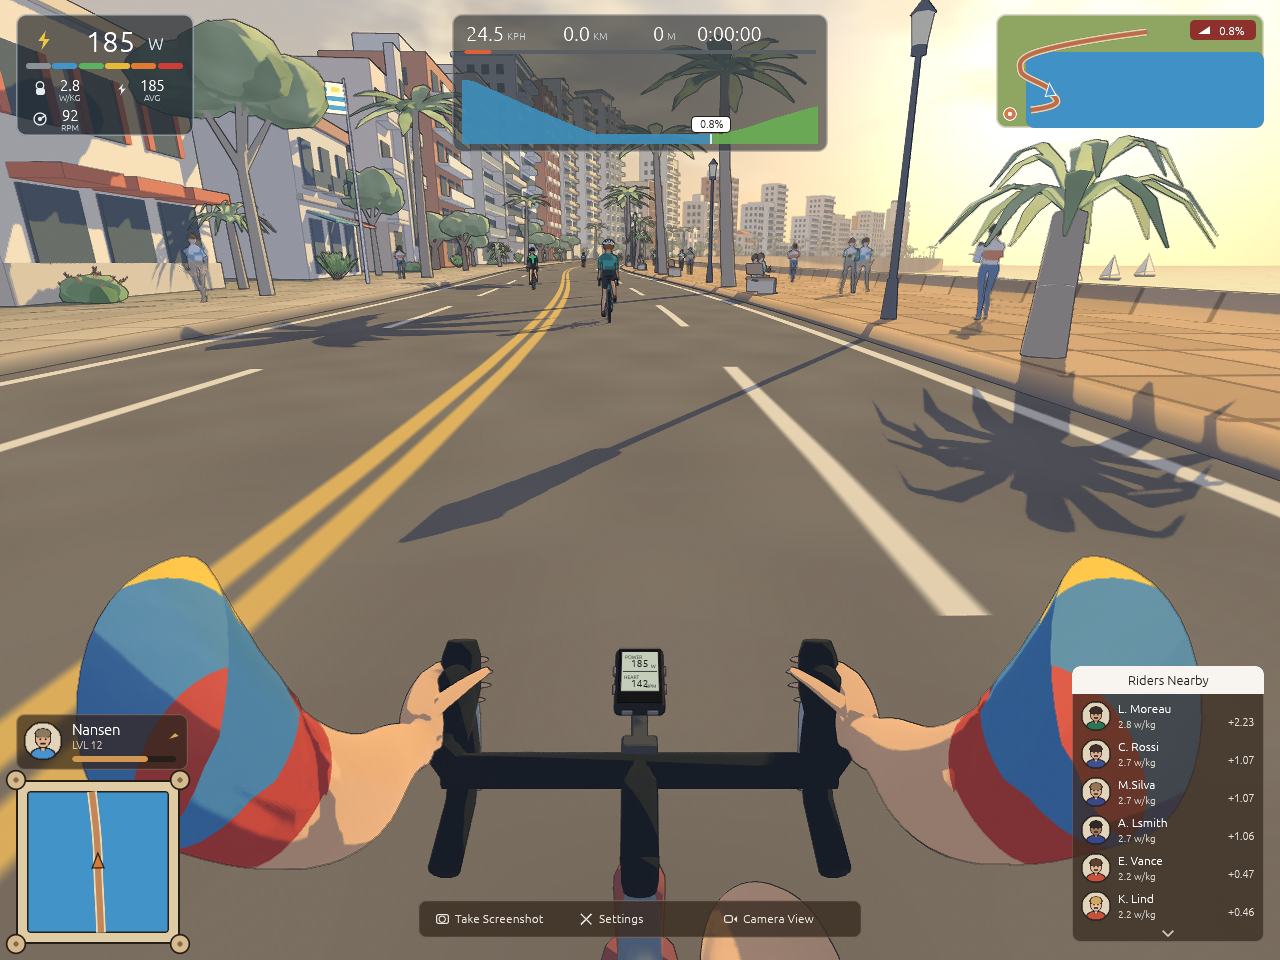
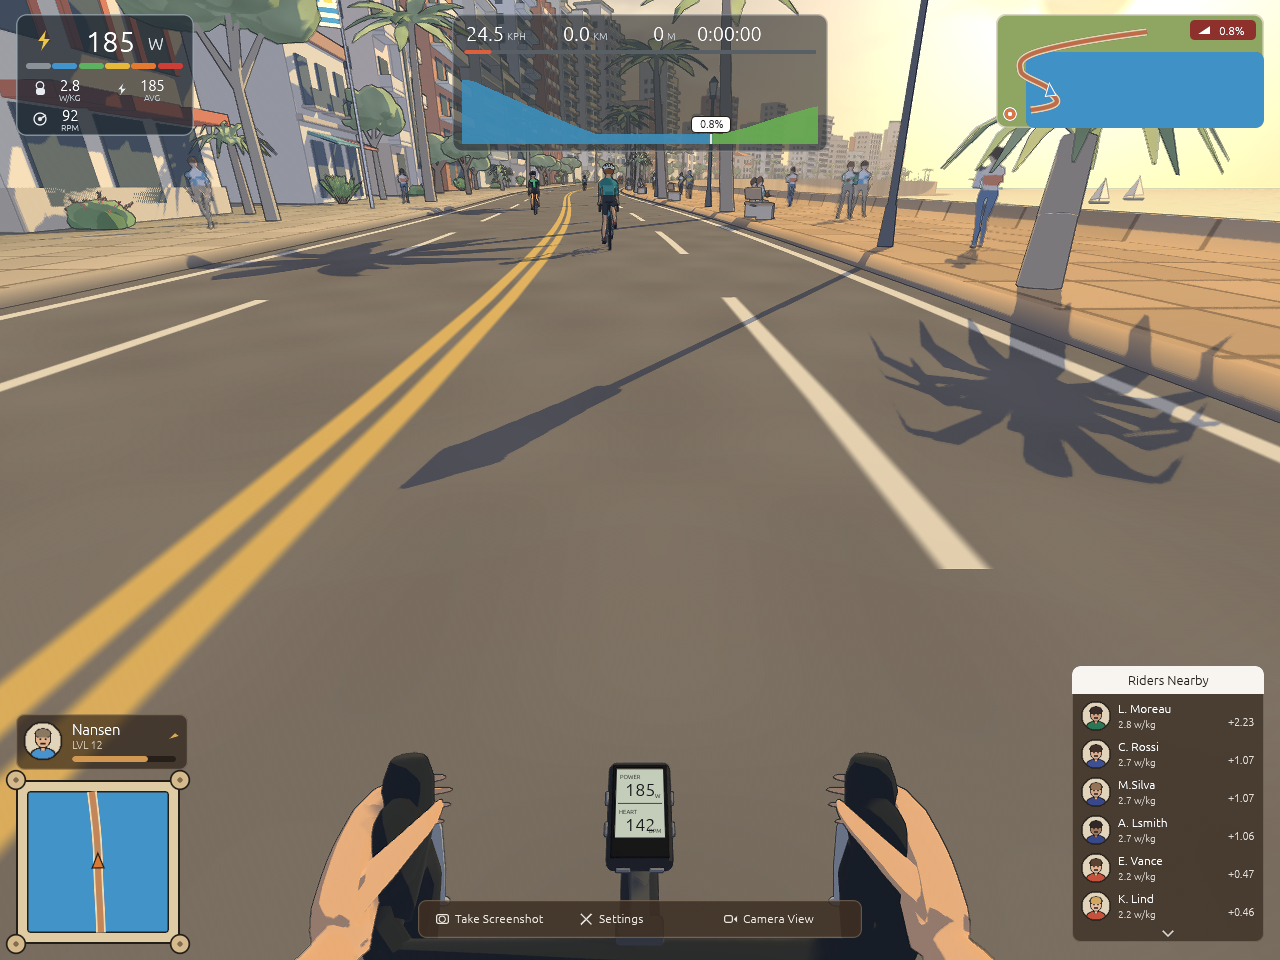
Chest POV: move lens in front of the sternum so arms reach the screen edge
The chest cam sat level with the shoulders (inside the torso volume), so
the 0.25 m near plane sliced the upper arms open and showed their hollow
interior. The lens now sits ~3.5 cm in front of the sternum (1.36 m up,
pitched ~26 deg, 76 deg FOV) with a 0.06 m near plane for this mode only,
so the shoulders are behind the camera and the forearms enter whole from
the bottom edge.

Also fixes dynamic rider/animal cull spheres being centred on the model
origin instead of its AABB centre: the bike frame's origin is at road
level, so its sphere missed the handlebars and the GPU culled the whole
bike when the camera looked steeply down. LoadedModel now carries
bounds_center.

diff --git a/src/renderer/mod.rs b/src/renderer/mod.rs
@@ -212,6 +212,7 @@ struct GpuMeshSection {
 struct GpuModel {
     sections: Vec<GpuMeshSection>,
     bounding_radius: f32,
+    bounds_center: Vec3,
 }
 
 struct GpuWorldOffsets {
@@ -253,6 +254,12 @@ struct StaticSectorCmd {
     shadow_candidate: bool,
     caster_tier: u8,    // 0 = none, 1 = C0 only, 2 = C0..C1, 3 = C0..C2
 }
+
+/// Chest POV eye position relative to the rider's road contact point (metres, rider basis).
+const CHEST_POV_EYE_UP: f32 = 1.36;
+const CHEST_POV_EYE_FWD: f32 = 0.115;
+/// Chest POV near plane: small enough that the arms passing beside the lens are not clipped open.
+const CHEST_POV_NEAR_M: f32 = 0.06;
 
 /// Projects the head unit's display corners to normalized screen UV; `None` if any corner is behind the camera.
 fn project_head_unit_screen(model: Mat4, view_proj: Mat4) -> Option<[[f32; 2]; 4]> {
@@ -407,6 +414,7 @@ impl LigneClaireRenderer {
                 GpuModel {
                     sections: gpu_secs,
                     bounding_radius: model.bounding_radius,
+                    bounds_center: model.bounds_center,
                 },
             );
         }
@@ -2034,18 +2042,24 @@ impl LigneClaireRenderer {
                 player_pos + forward * 22.0 + up * 1.25,
                 64.0,
             ),
-            // Chest-mounted POV: just behind the shoulders, pitched ~12 deg down so the
-            // handlebars, stem, hands and forearms frame the bottom of the screen.
-            CameraMode::ChestPov => (
-                player_pos + up * 1.32 - forward * 0.15,
-                player_pos + forward * 10.0 - up * 2.1,
-                72.0,
-            ),
+            // Chest-mounted POV: sits just in front of the sternum (like a chest-strap action cam),
+            // so the shoulders are behind the lens and the arms enter whole from the screen edges.
+            // Pitched ~26 deg down so the bars, stem, head unit and hands frame the bottom.
+            CameraMode::ChestPov => {
+                let eye = player_pos + up * CHEST_POV_EYE_UP + forward * CHEST_POV_EYE_FWD;
+                (eye, eye + forward * 10.0 - up * 4.88, 76.0)
+            }
         };
         let fov_deg = (base_fov_deg + graphics.fov_offset_deg).clamp(32.0, 80.0);
 
         let aspect = target_width.max(1) as f32 / target_height.max(1) as f32;
-        let near = 0.25_f32;
+        // The chest cam has forearms ~0.1 m from the lens; everything else keeps the wider near plane
+        // for depth precision at the 1.9 km far plane.
+        let near = if camera_mode == CameraMode::ChestPov {
+            CHEST_POV_NEAR_M
+        } else {
+            0.25_f32
+        };
         let far = 1900.0_f32;
         let view_mat = Mat4::look_at_rh(cam_pos, cam_target, Vec3::Y);
         let unjittered_proj_mat = Mat4::perspective_rh(fov_deg.to_radians(), aspect, near, far);
@@ -2369,11 +2383,13 @@ impl LigneClaireRenderer {
         build_animal_draw_parts(biome, spline, animals, cam_pos, &mut rider_parts);
 
         for rp in &rider_parts {
-            let (sec_count, base_bound_r) = match self.models.get(&rp.model) {
-                Some(m) => (m.sections.len(), m.bounding_radius),
+            let (sec_count, base_bound_r, bounds_center) = match self.models.get(&rp.model) {
+                Some(m) => (m.sections.len(), m.bounding_radius, m.bounds_center),
                 None => continue,
             };
-            let pos = rp.transform.w_axis.truncate();
+            // Cull sphere centred on the model's AABB centre (not its origin), so tall parts such as
+            // the handlebars stay inside the sphere when the camera looks steeply down (Chest POV).
+            let pos = rp.transform.transform_point3(bounds_center);
             let world_radius = base_bound_r.max(0.25) * transform_max_scale(&rp.transform);
             let (outline_w, crease_s) = match rp.model {
                 ModelId::BikeWheel => (0.72, 0.0),

diff --git a/src/assets.rs b/src/assets.rs
@@ -230,7 +230,11 @@ pub struct MeshSection {
 pub struct LoadedModel {
     pub sections: Vec<MeshSection>,
     pub skeleton: Option<SkeletonInfo>,
+    /// Half-diagonal of the model-space AABB, measured from `bounds_center`.
     pub bounding_radius: f32,
+    /// Model-space AABB centre. Bounding spheres must be centred here, not at the model origin:
+    /// e.g. the bike frame's origin is at road level while its handlebars sit 0.93 m up.
+    pub bounds_center: Vec3,
 }
 
 pub struct AssetBank {
@@ -443,16 +447,17 @@ fn load_glb(id: ModelId, bytes: &[u8]) -> LoadedModel {
             max_pt = max_pt.max(p);
         }
     }
-    let bounding_radius = if min_pt.x <= max_pt.x {
-        (0.5 * (max_pt - min_pt)).length().max(0.05)
+    let (bounding_radius, bounds_center) = if min_pt.x <= max_pt.x {
+        ((0.5 * (max_pt - min_pt)).length().max(0.05), 0.5 * (min_pt + max_pt))
     } else {
-        0.5
+        (0.5, Vec3::ZERO)
     };
 
     LoadedModel {
         sections,
         skeleton,
         bounding_radius,
+        bounds_center,
     }
 }
 
